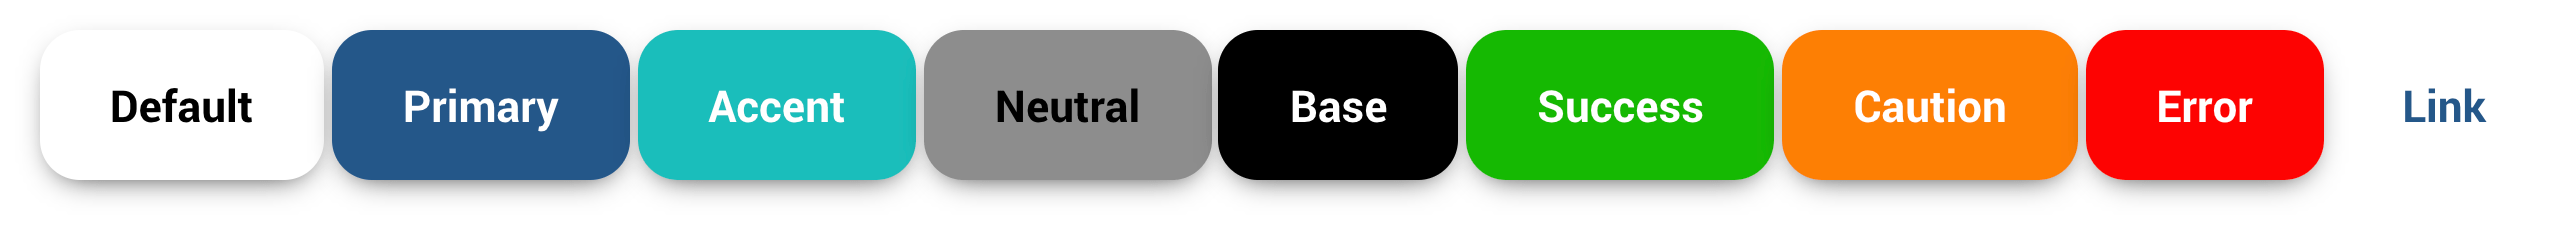
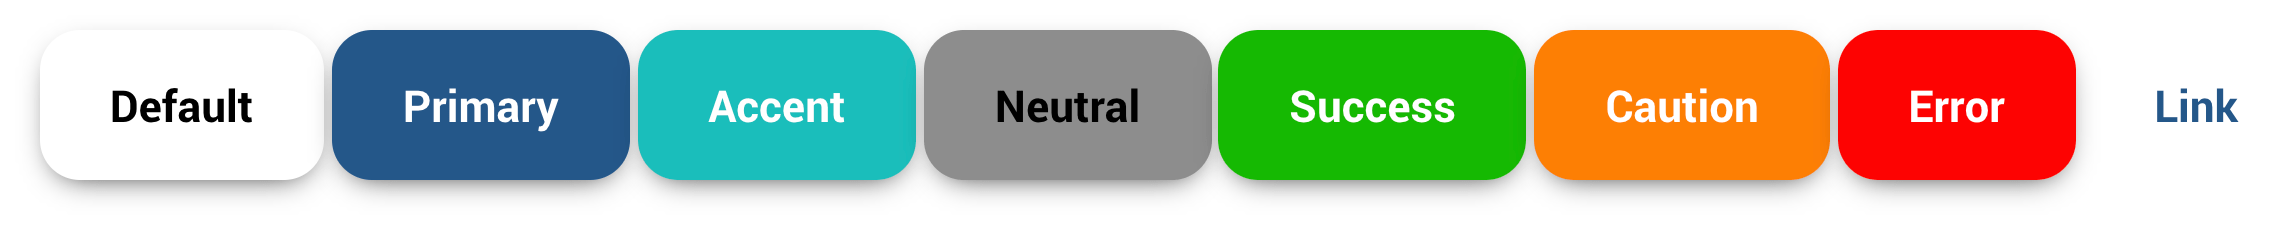
eee

Changed region(s): [[0.031, 0.1186, 0.9917, 0.8305], [0.8677, 0.7415, 0.8987, 0.7712], [0.8677, 0.1186, 0.8987, 0.1483]]

diff --git a/scss/import/_vars.scss b/scss/import/_vars.scss
@@ -549,19 +549,6 @@
 				$btn-background-default-active: $brand-color-primary !default;
 				$btn-color-default-active: $brand-color-background !default;
 
-			
-			$btn-border-base: transparent !default;
-			$btn-background-base: $brand-color-base !default;
-			$btn-color-base: $brand-color-background !default;
-
-				$btn-border-base-hover: transparent !default;
-				$btn-background-base-hover: $brand-color-neutral-dark !default;
-				$btn-color-base-hover: $brand-color-background !default;
-				
-				$btn-border-base-active: transparent !default;
-				$btn-background-base-active: $brand-color-base !default;
-				$btn-color-base-active: $brand-color-background !default;
-
 			$btn-border-primary: transparent !default;
 			$btn-background-primary: $brand-color-primary !default;
 			$btn-color-primary: $brand-color-background !default;

diff --git a/scss/import/_internal-vars.scss b/scss/import/_internal-vars.scss
@@ -103,25 +103,7 @@ $calculated-btn-schemes: (
             color: $btn-color-default,
         )
     ),
-    base: (
-
-        hover: (
-            background: $btn-background-base-hover,
-            border: $btn-border-base-hover,
-            color: $btn-color-base-hover,
-        ),
-
-        active: (
-            background: $btn-background-base-active,
-            border: $btn-border-base-active,
-            color: $btn-color-base-active,
-        ),
-        init: (
-            background: $btn-background-base,
-            border: $btn-border-base,
-            color: $btn-color-base,
-        )
-    ),
+    
 	primary: (
 
         hover: (

diff --git a/docs/sections/components/button.md b/docs/sections/components/button.md
@@ -22,7 +22,6 @@ Other styles are available in the framework aside from `.btn-default`
 
 To color the butts, add `.btn-[color-tag]`
 
-*	**`.btn-base`**
 *	**`.btn-primary`**
 *	**`.btn-accent`**
 *	**`.btn-neutral`**
@@ -39,7 +38,6 @@ To style a button like it's a basic link (but it's not hihihi) use **`.btn-link`
 <button type="button" class="btn btn-primary">Primary</button>
 <button type="button" class="btn btn-accent">accent</button>
 <button type="button" class="btn btn-neutral">neutral</button>
-<button type="button" class="btn btn-base">base</button>
 <button type="button" class="btn btn-success">Success</button>
 <button type="button" class="btn btn-caution">caution</button>
 <button type="button" class="btn btn-error">error</button>
@@ -221,7 +219,6 @@ Styles the button as disabled and also prevents it from doing shit
 <a href="#" class="btn btn-disabled btn-primary">Primary</a>
 <a href="#" class="btn btn-disabled btn-accent">accent</a>
 <a href="#" class="btn btn-disabled btn-neutral">neutral</a>
-<a href="#" class="btn btn-disabled btn-base">base</a>
 <a href="#" class="btn btn-disabled btn-success">Success</a>
 <a href="#" class="btn btn-disabled btn-caution">caution</a>
 <a href="#" class="btn btn-disabled btn-error">error</a>
@@ -271,7 +268,6 @@ Individually
 <button type="button" class="btn btn-small btn-primary">Primary</button>
 <button type="button" class="btn btn-small btn-accent">accent</button>
 <button type="button" class="btn btn-small btn-neutral">neutral</button>
-<button type="button" class="btn btn-small btn-base">base</button>
 <button type="button" class="btn btn-small btn-success">Success</button>
 <button type="button" class="btn btn-small btn-caution">caution</button>
 <button type="button" class="btn btn-small btn-error">error</button>
@@ -289,7 +285,6 @@ Add this class to make ya boi chonky
 <button type="button" class="btn btn-large btn-primary">Primary</button>
 <button type="button" class="btn btn-large btn-accent">accent</button>
 <button type="button" class="btn btn-large btn-neutral">neutral</button>
-<button type="button" class="btn btn-large btn-base">base</button>
 <button type="button" class="btn btn-large btn-success">Success</button>
 <button type="button" class="btn btn-large btn-caution">caution</button>
 <button type="button" class="btn btn-large btn-error">error</button>
